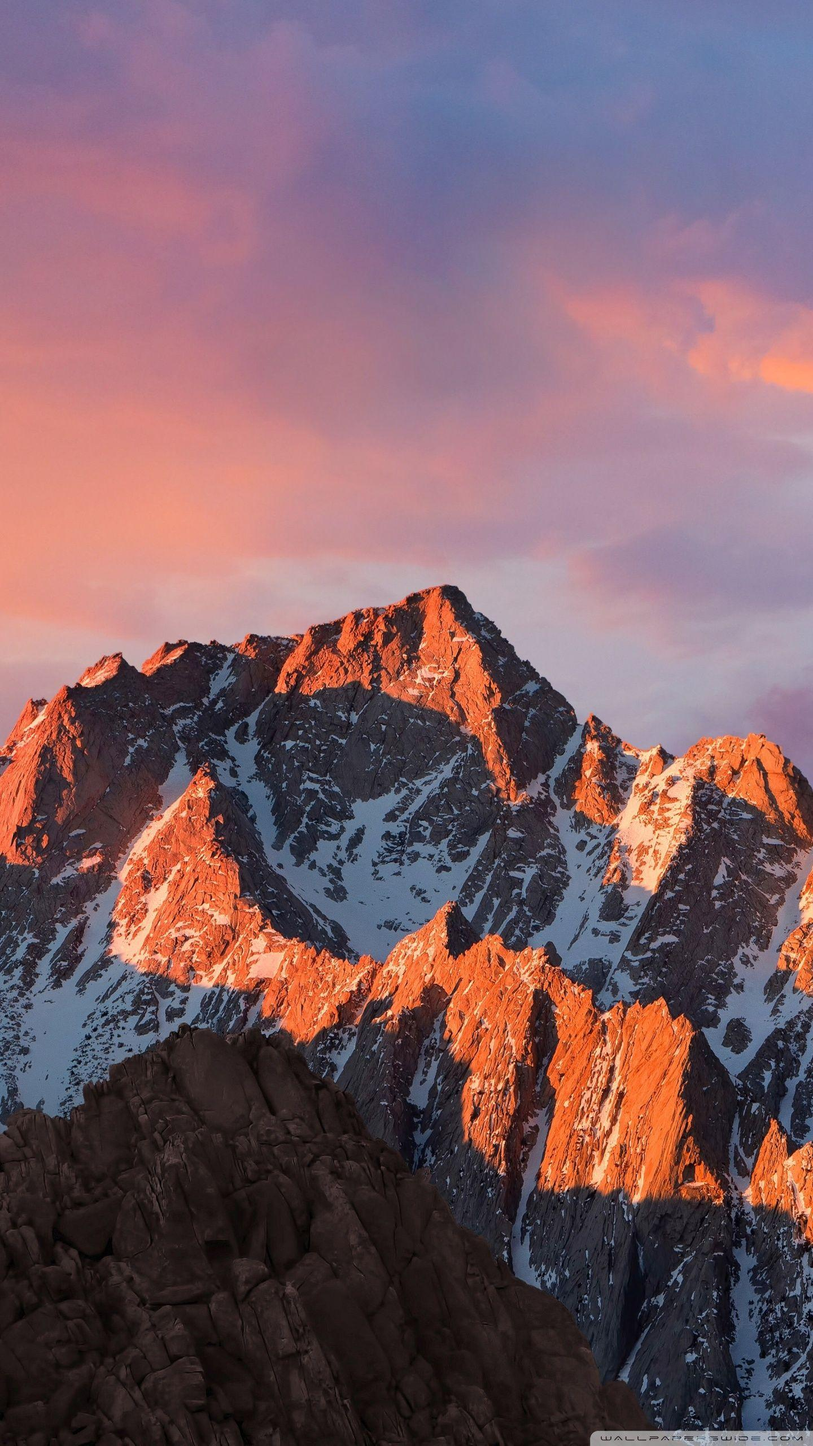
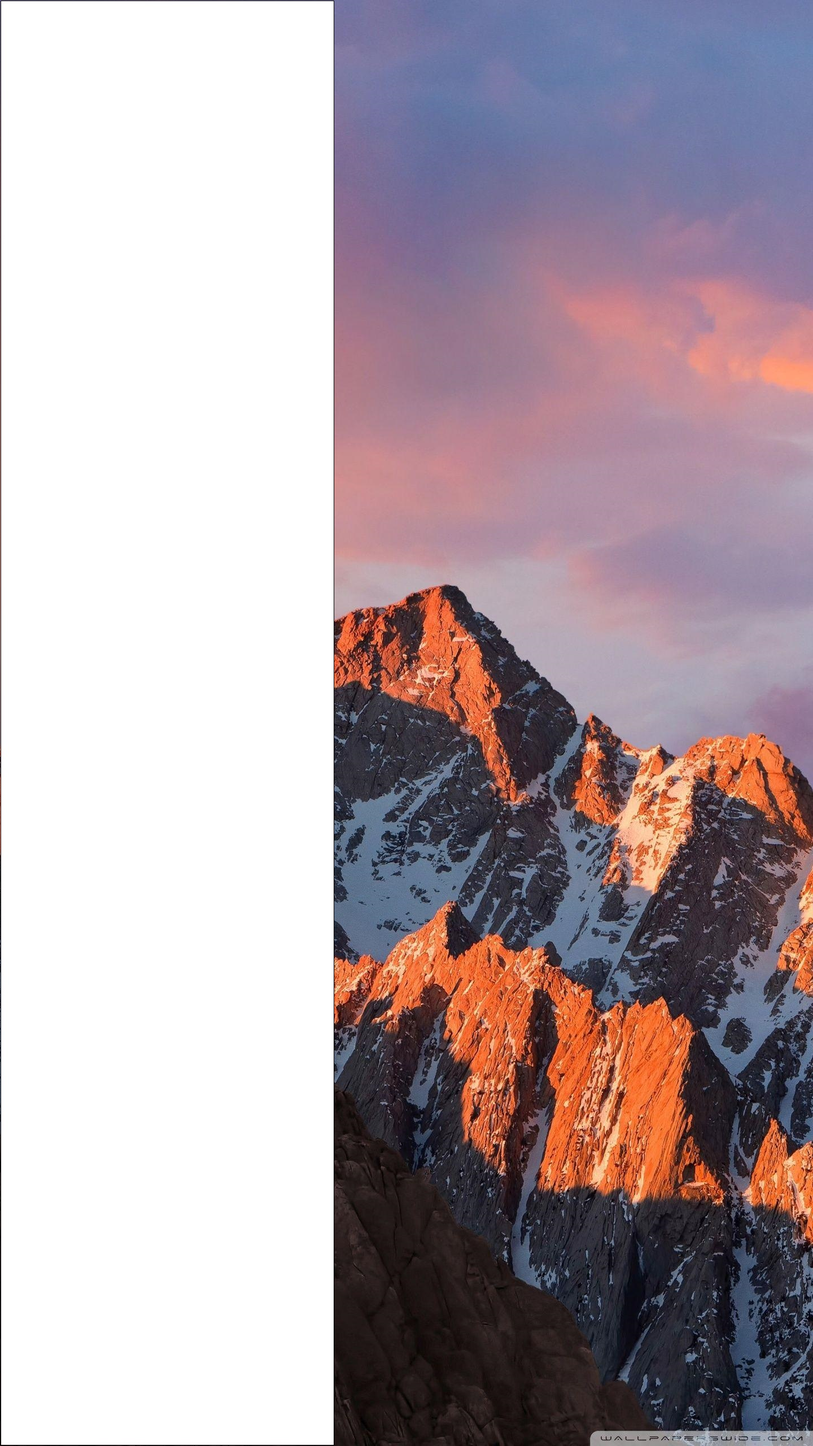
test

diff --git a/index.html b/index.html
@@ -6,7 +6,7 @@
         <link rel="icon" type="image/x-icon" href="favicon.png">
     </head>
     <body>
-        <header>
+        <header class="container">
             <h1>Ronald Fish</h1>
             <h4>A Resume for Computer Studies 10</h4>
             <h5><i>No real names were used, obviously</i></h5>
@@ -30,21 +30,21 @@
 
             </p>
         </article>
-        <article id="Education">
+        <article id="Education"class="container">
             <h2> Education</h2>
             <ul>
                 <li>Graduate of Hammersmith Academy in 2020</li>
                 <li>Graduate of London Business School in 2024</li>
             </ul>
         </article>
-        <article id="Work Experience">
+        <article id="Work Experience"class="container">
             <h2>Work Experience</h2>
             <ul>
                 <li>Shooting weddings and events professionally since 2023</li>
             </ul>
 
         </article>
-        <article id="My Equipment">
+        <article id="My Equipment"class="container">
             <h2>My Equipment</h2>
             <h4>Body</h4>
             My main camera body for most of my career has been a Panasonic S5, but recently I have come into posession of a Leica SL3. 

diff --git a/style.css b/style.css
@@ -13,7 +13,7 @@ body {
 }
 
 .container {
-  
+  max-width: 300px;
 
 
 }
